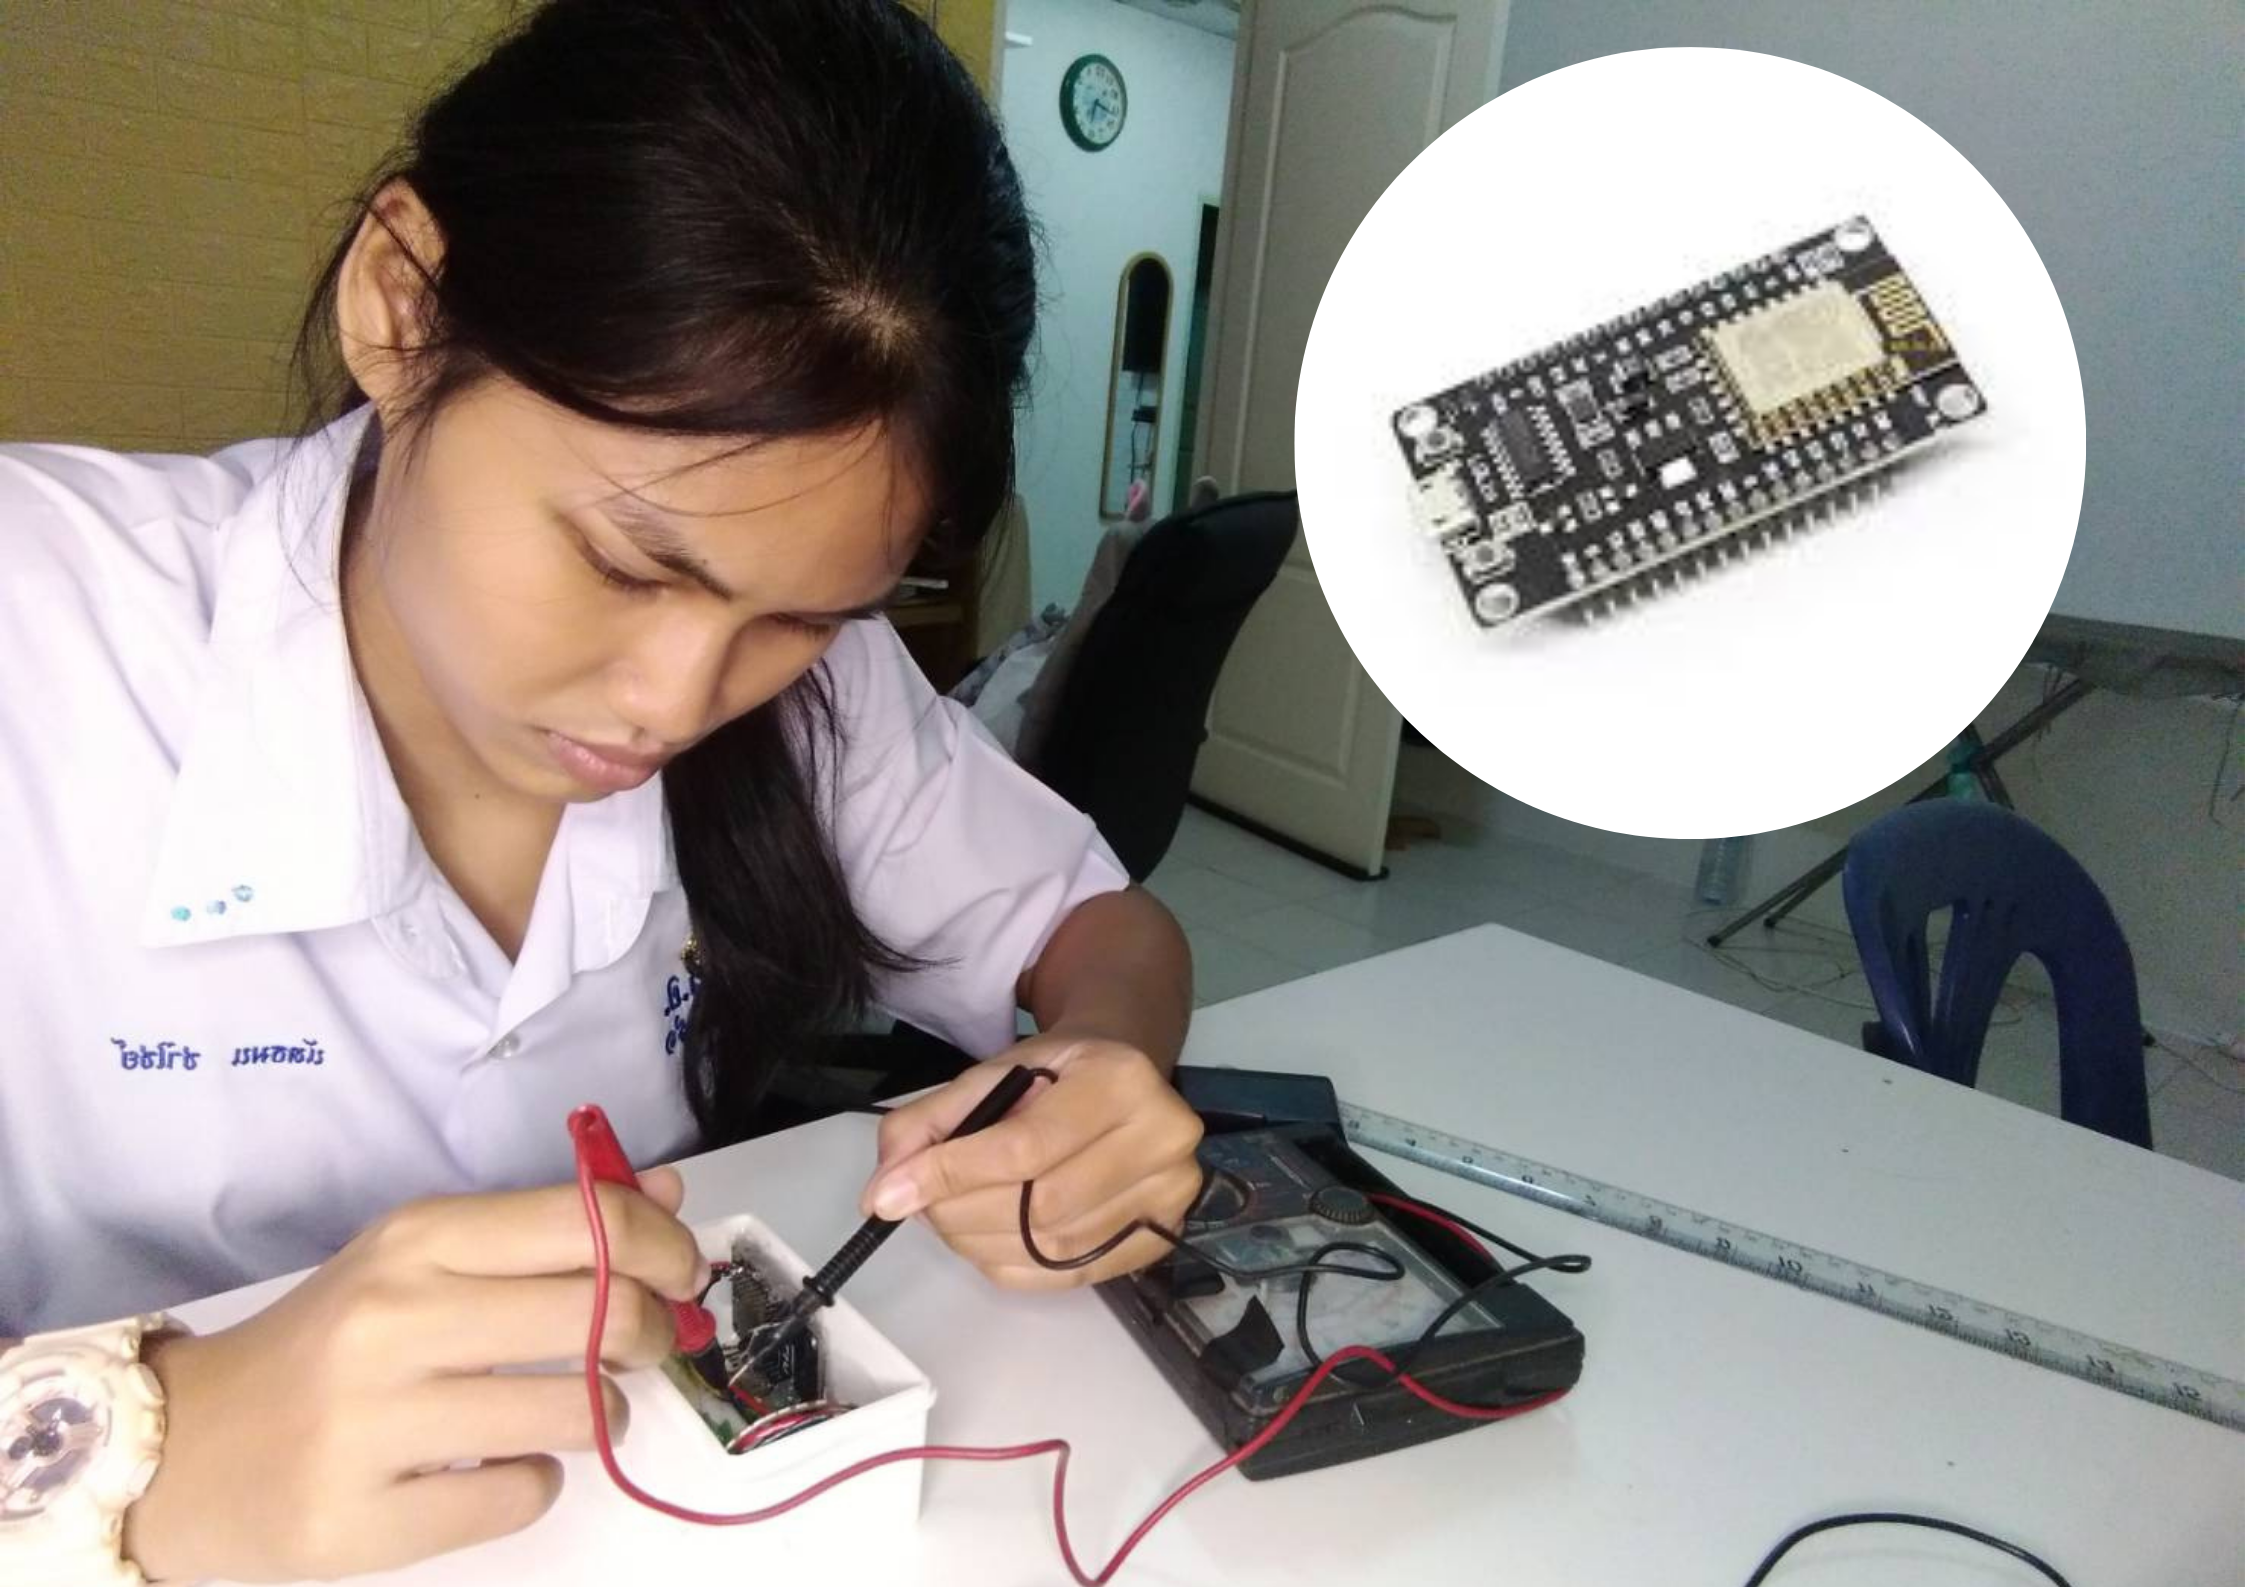
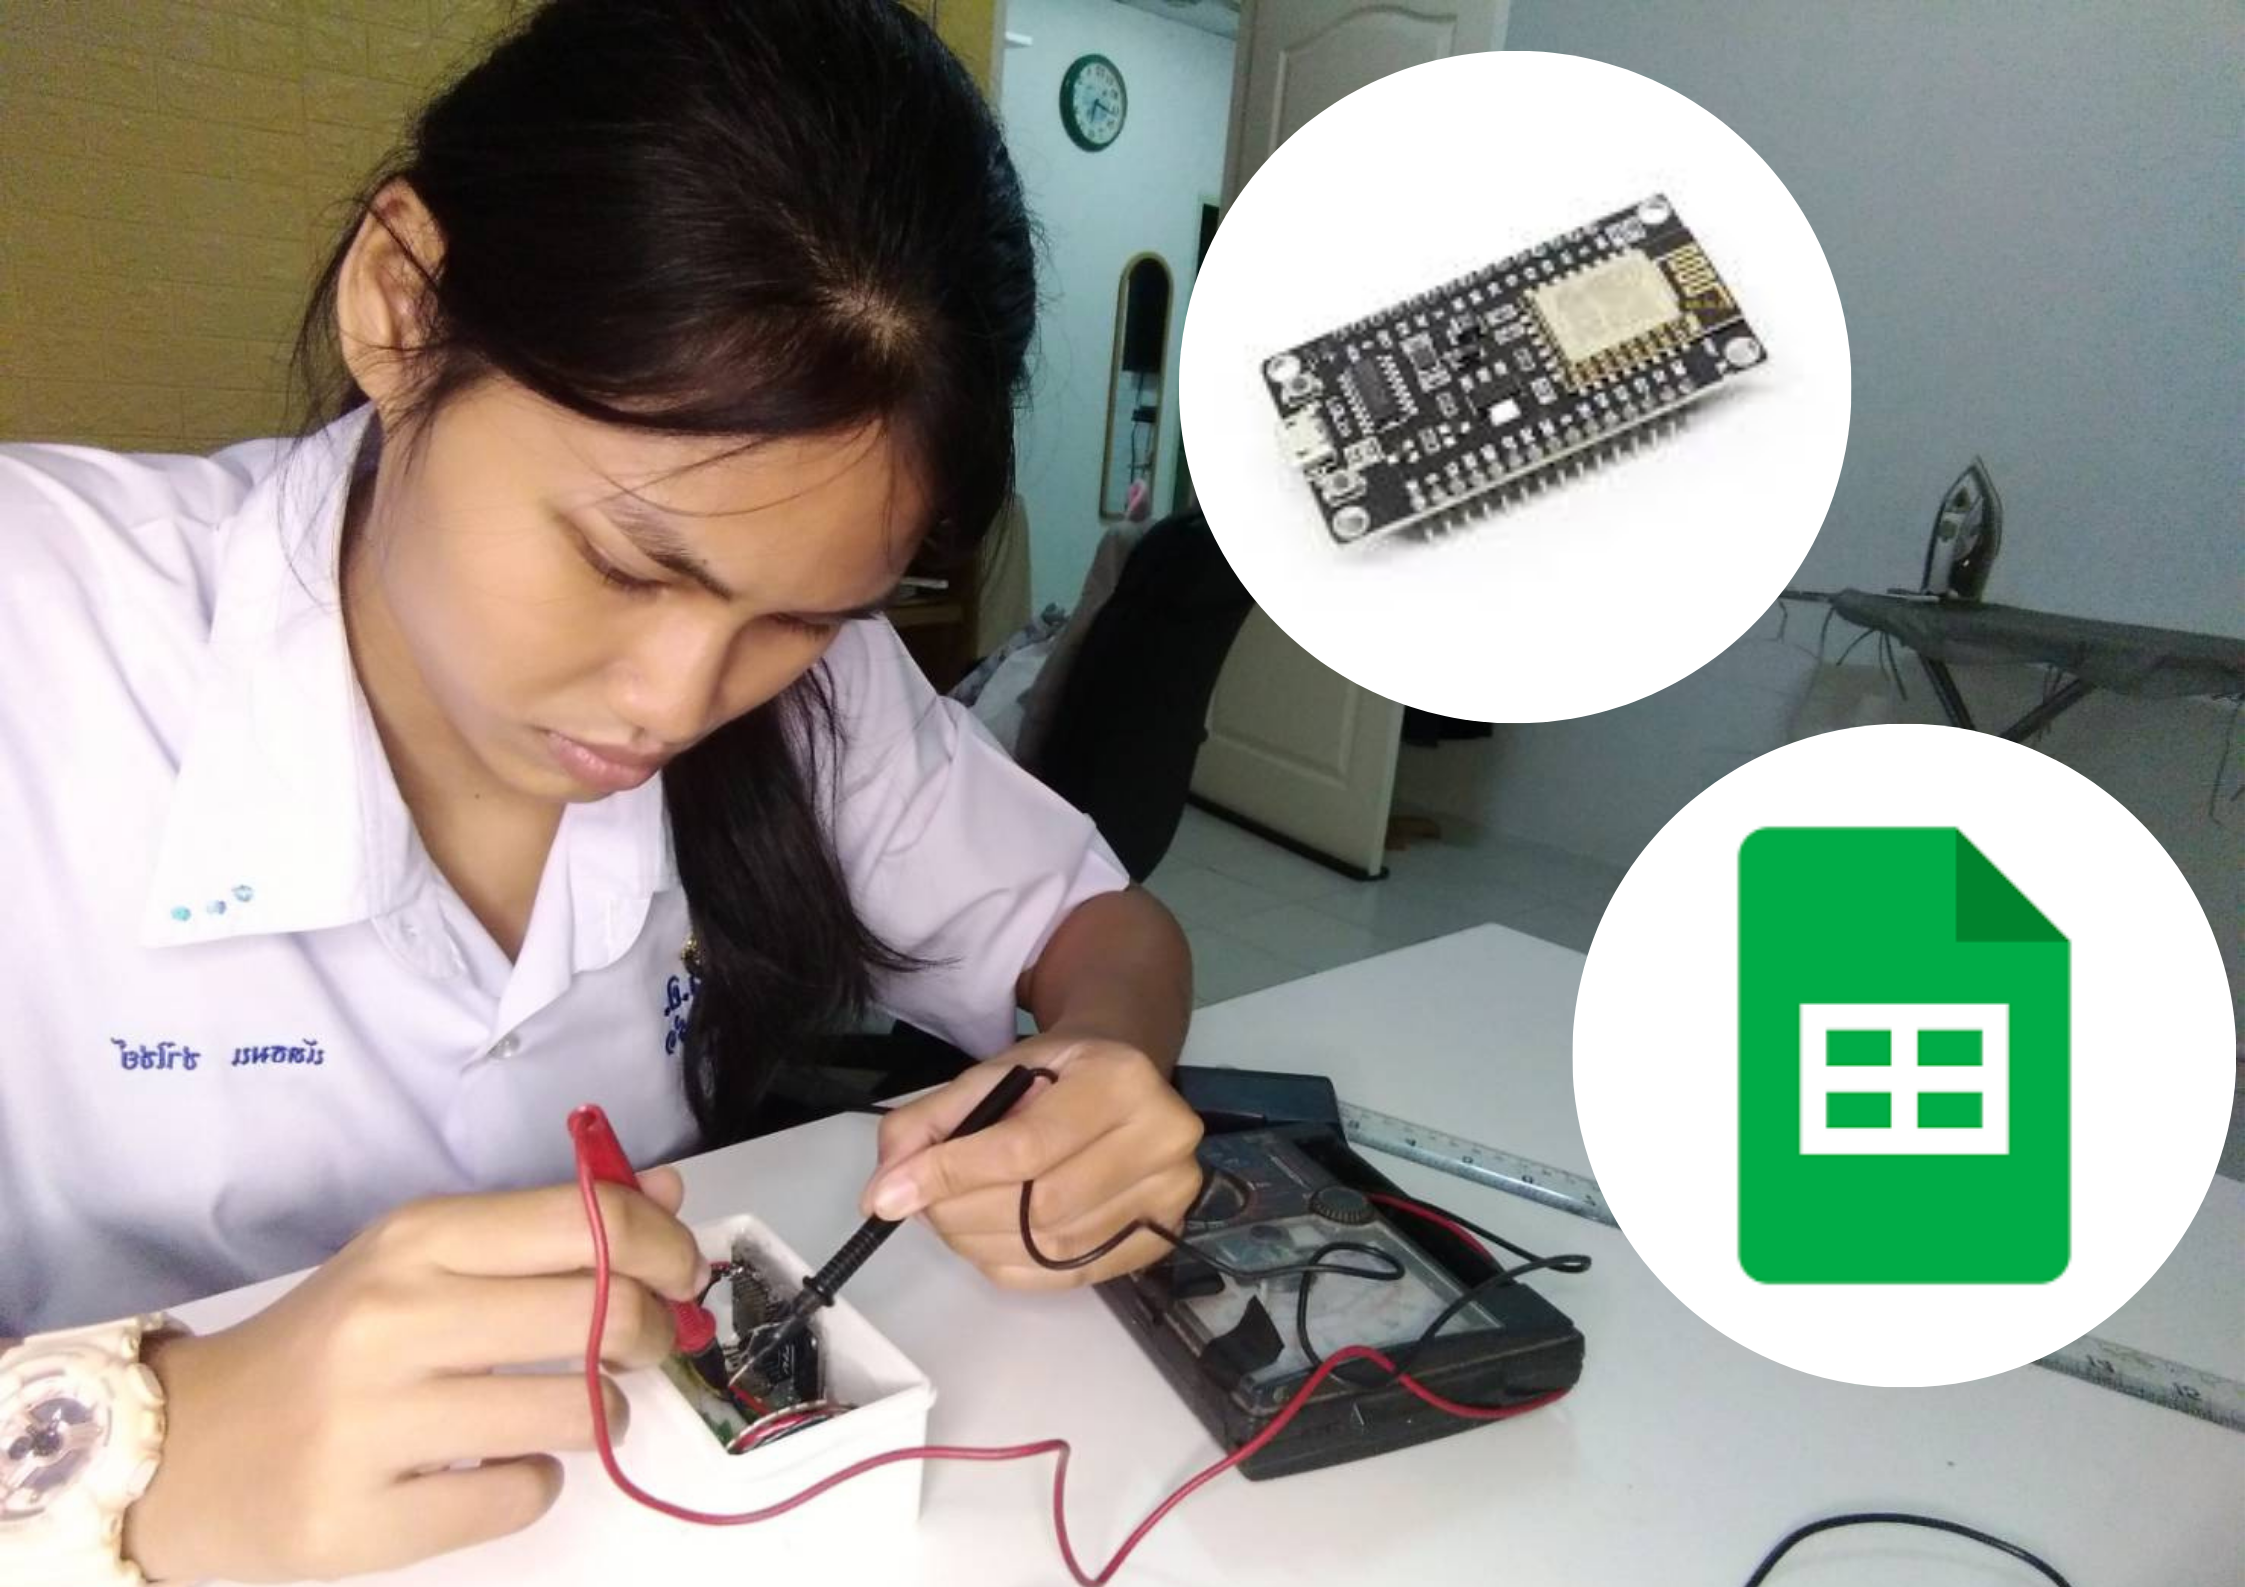
aa

Changed region(s): [[0.4989, 0.0309, 0.9978, 0.8954]]

diff --git a/skill.html b/skill.html
@@ -86,6 +86,8 @@
             <ul>
                 <li class="mt-1 fw-bold fs-6" style="color: #209915;">Micro controller (Node MCU ESP8266)</li>
                 <li class="mt-1">เครื่องวัดค่าอุณหภูมิ, บันทึกข้อมูลลง Google sheet</li>
+                <li class="mt-1"><a href="https://docs.google.com/spreadsheets/d/1wP6SAJ37kqBXU1dRNsKAdG_4XoOy0DiwpDHr3dGJQoU/edit?usp=sharing">Link Google sheet</a></li>
+                
             </ul>
       </div>
 
@@ -124,24 +126,26 @@
       <!-- เริ่มการแบ่ง Column ที่2-->
       <div class="col-md-4">
         <div id="descImg"><h3 class="font-maitree mb-3 mt-3";></h3></div>
-        <img src="img/varTee.jpg  " id="topic-cover" class="img-thumbnail" alt="pict">
+        <img src="img/dtStudio.png  " id="topic-cover" class="img-thumbnail" alt="pict">
         
         <div style="height: 10px;"> </div>
             <ul>
                 <li class="mt-1 fw-bold fs-6" style="color: #209915;">งานด้าน Digital</li>
                 <li class="mt-1">สร้างระบบ Reprot ด้วย Data studio</li>
+                <li class="mt-1"><a href="https://docs.google.com/spreadsheets/d/1wP6SAJ37kqBXU1dRNsKAdG_4XoOy0DiwpDHr3dGJQoU/edit?usp=sharing">Link Data studio</a></li>
             </ul>
       </div>
 
       <!-- เริ่มการแบ่ง Column ที่3-->
       <div class="col-md-4">
         <div id="descImg"><h3 class="font-maitree mb-3 mt-3";></h3></div>
-        <img src="img/bpEng.jpg" id="topic-cover" class="img-thumbnail" alt="pict">
+        <img src="img/ggForm.png" id="topic-cover" class="img-thumbnail" alt="pict">
         
         <div style="height: 10px;"> </div>
             <ul>
                 <li class="mt-1 fw-bold fs-6" style="color: #209915;">งานด้าน Digital</li>
                 <li class="mt-1">สร้างแบบสอบถามด้วย Google form</li>
+                <li class="mt-1"><a href="https://docs.google.com/forms/d/e/1FAIpQLScJeFApoIm9L2wUsy4eA7bC9SShXtSt-NVOjSndBMmMwMjWnw/viewform?usp=sf_link">Google Form</a></li>
 
             </ul>
       </div>   
